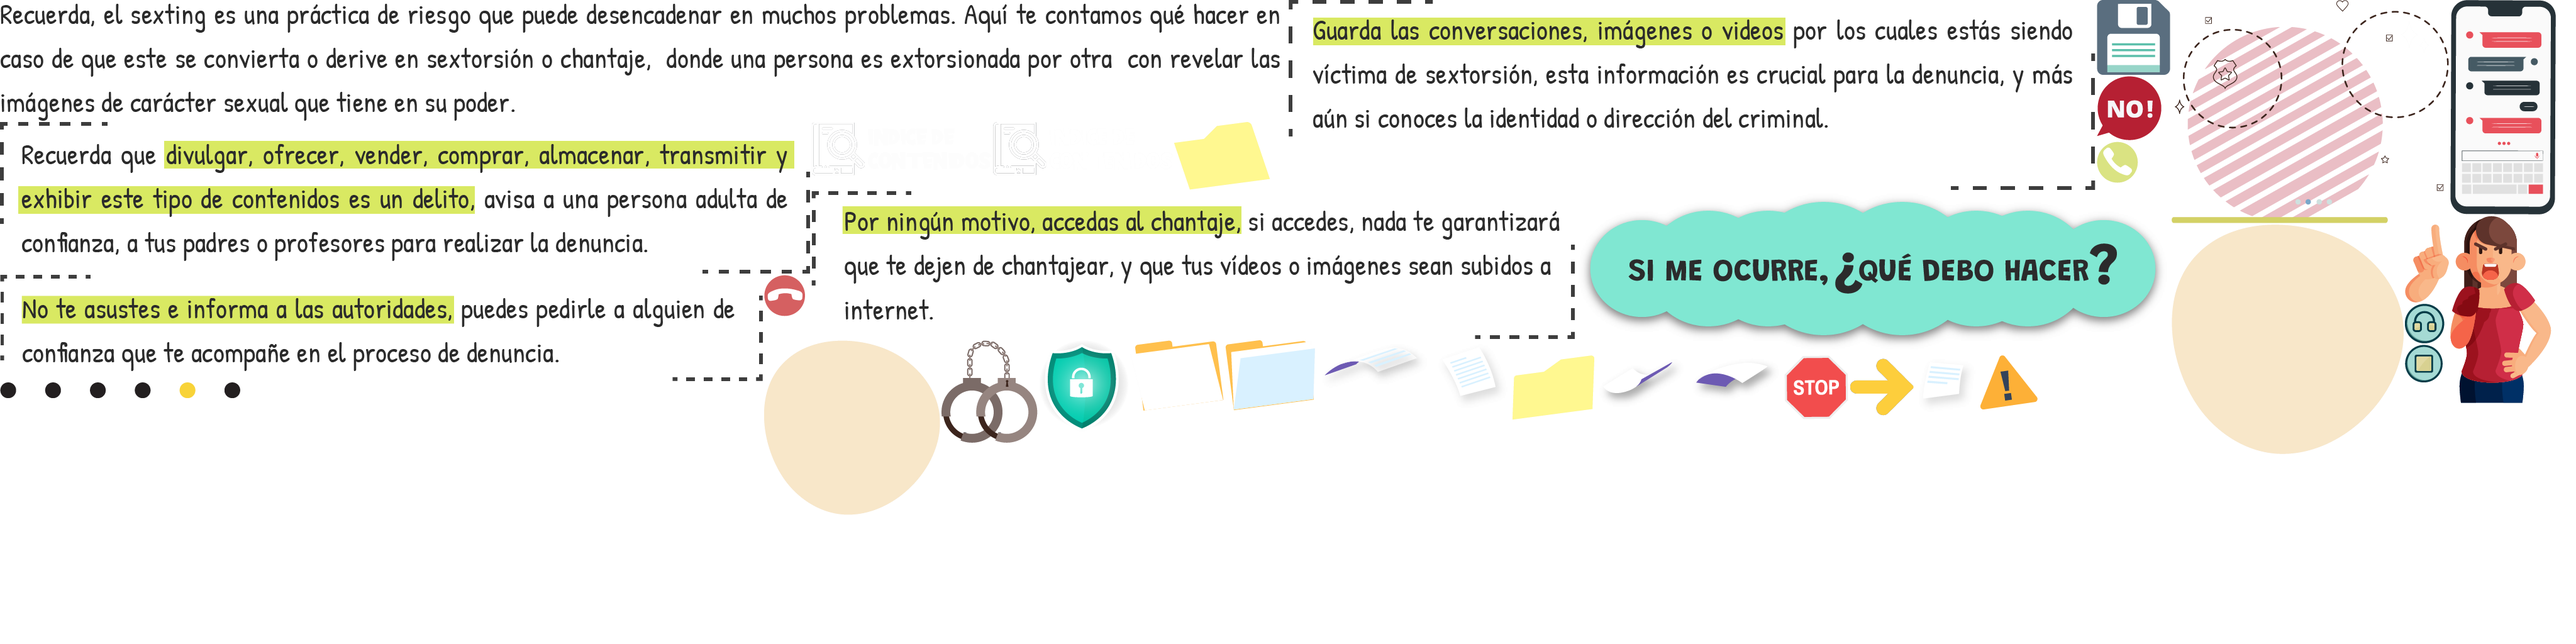
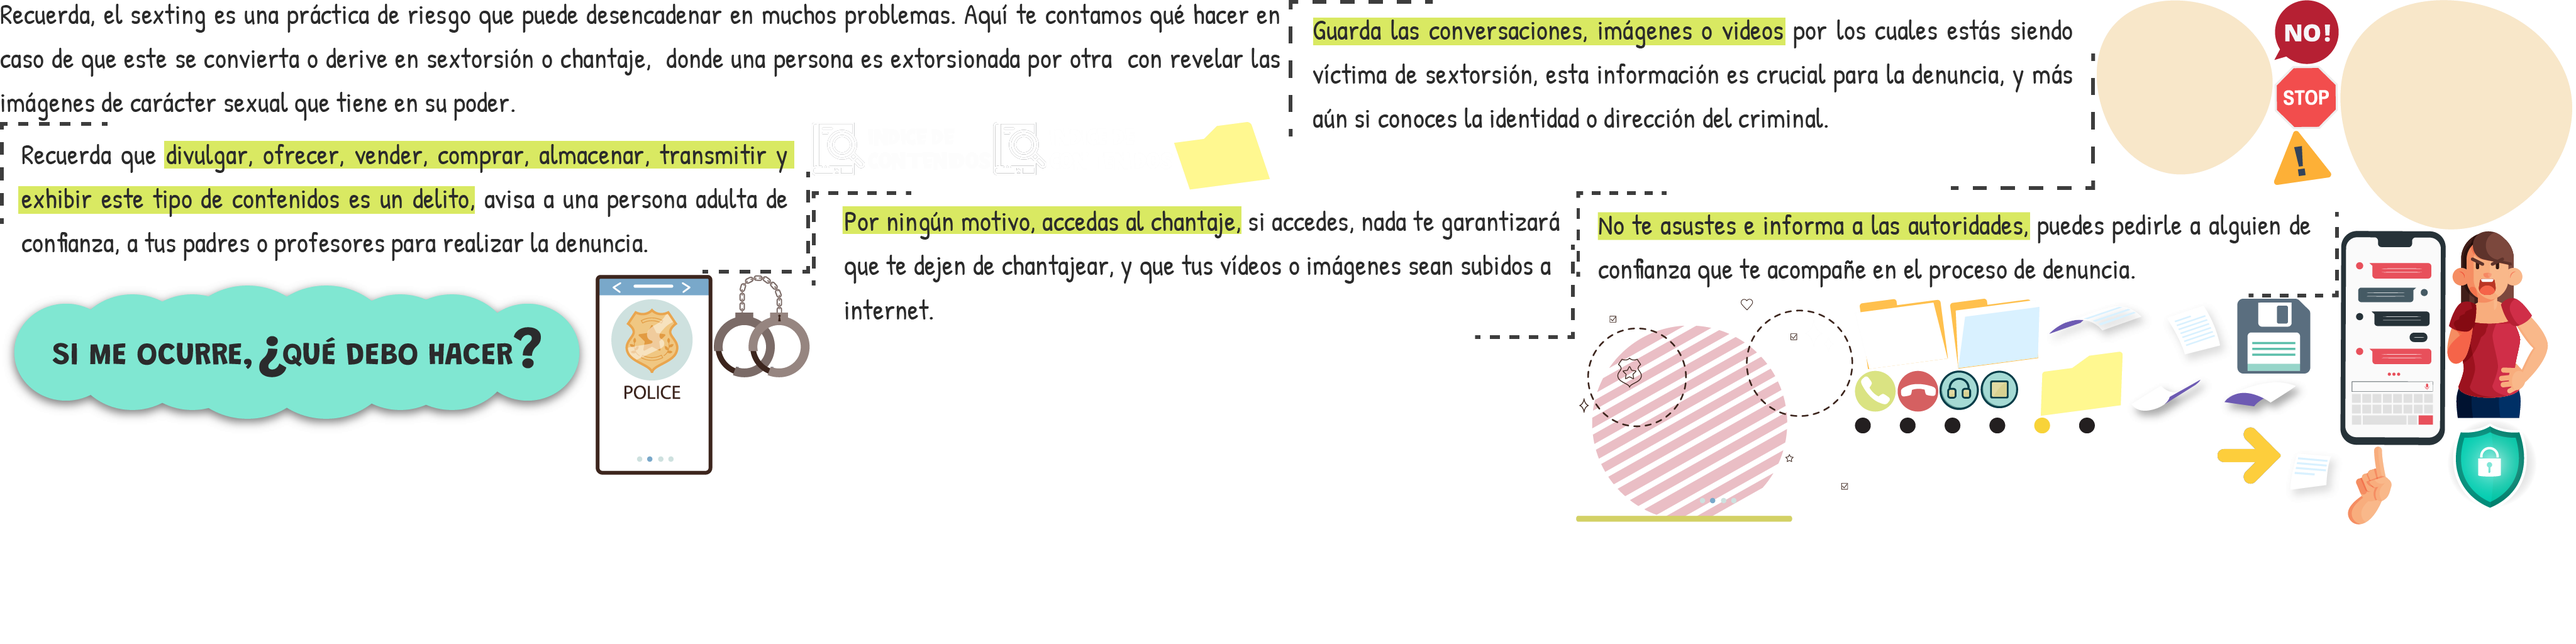
cambios

Changed region(s): [[0.0, 0.0, 1.0, 0.8125]]

diff --git a/Pinocho_y_el_sexting/Contenidos/Si_me_ocurre/index.js b/Pinocho_y_el_sexting/Contenidos/Si_me_ocurre/index.js
@@ -3,7 +3,7 @@
 var p; // shortcut to reference prototypes
 var lib={};var ss={};var img={};
 lib.ssMetadata = [
-		{name:"index_atlas_1", frames: [[3824,357,70,124],[1579,194,286,85],[1290,194,287,85],[3824,483,63,63],[3824,548,60,60],[1797,541,149,112],[1948,541,143,112],[1215,437,65,66],[3334,225,66,66],[1652,541,143,146],[1497,541,153,163],[1215,541,280,278],[3453,0,441,355],[3453,357,369,365],[3334,0,117,119],[2685,565,150,76],[2537,565,146,86],[2093,541,184,82],[2279,541,124,116],[3045,565,102,96],[3149,565,91,86],[2837,565,102,102],[3896,343,161,298],[3334,121,103,102],[0,0,2047,192],[2049,0,1283,302],[0,437,1213,169],[0,194,1288,241],[1290,304,1214,235],[3896,0,168,341],[0,608,382,25],[2941,565,102,102],[1867,194,152,108],[2405,565,130,103],[2506,304,945,259]]}
+		{name:"index_atlas_1", frames: [[3733,710,70,124],[1579,194,286,85],[1290,194,287,85],[3084,589,63,63],[3149,589,60,60],[2949,475,149,112],[3100,475,143,112],[3017,589,65,66],[2949,589,66,66],[3891,667,143,146],[1135,437,153,163],[3334,0,280,278],[2506,475,441,355],[3721,0,369,365],[3557,475,117,119],[3525,596,150,76],[3377,593,146,86],[3245,475,184,82],[3431,475,124,116],[3629,710,102,96],[3616,208,91,86],[3616,104,102,102],[3891,367,161,298],[3616,0,103,102],[0,0,2047,192],[2049,0,1283,302],[2506,304,1213,169],[0,194,1288,241],[1290,304,1214,235],[947,437,186,318],[3721,367,168,341],[2949,664,382,25],[3525,674,102,102],[1867,194,152,108],[3245,559,130,103],[0,437,945,259]]}
 ];
 
 
@@ -230,44 +230,51 @@ lib.ssMetadata = [
 
 
 
-(lib.Phone_1 = function() {
+(lib.Phone = function() {
 	this.initialize(ss["index_atlas_1"]);
 	this.gotoAndStop(29);
 }).prototype = p = new cjs.Sprite();
 
 
 
-(lib.posicion = function() {
+(lib.Phone_1 = function() {
 	this.initialize(ss["index_atlas_1"]);
 	this.gotoAndStop(30);
 }).prototype = p = new cjs.Sprite();
 
 
 
-(lib.SiguienteAtras = function() {
+(lib.posicion = function() {
 	this.initialize(ss["index_atlas_1"]);
 	this.gotoAndStop(31);
 }).prototype = p = new cjs.Sprite();
 
 
 
-(lib.TapaCarpetaDer = function() {
+(lib.SiguienteAtras = function() {
 	this.initialize(ss["index_atlas_1"]);
 	this.gotoAndStop(32);
 }).prototype = p = new cjs.Sprite();
 
 
 
-(lib.TapaCarpetaIzq = function() {
+(lib.TapaCarpetaDer = function() {
 	this.initialize(ss["index_atlas_1"]);
 	this.gotoAndStop(33);
 }).prototype = p = new cjs.Sprite();
 
 
 
-(lib.titulo = function() {
+(lib.TapaCarpetaIzq = function() {
 	this.initialize(ss["index_atlas_1"]);
 	this.gotoAndStop(34);
+}).prototype = p = new cjs.Sprite();
+
+
+
+(lib.titulo = function() {
+	this.initialize(ss["index_atlas_1"]);
+	this.gotoAndStop(35);
 }).prototype = p = new cjs.Sprite();
 // helper functions:
 
@@ -1288,11 +1295,17 @@ if (reversed == null) { reversed = false; }
 
 	this.timeline.addTween(cjs.Tween.get(this.instance_2).to({regX:0.2,regY:-0.2,scaleX:1.1211,scaleY:1.1211,x:319.4},29).to({regX:0,regY:0,scaleX:1,scaleY:1,x:319.5},30).wait(1));
 
-	// Fondo_1.png
-	this.instance_3 = new lib.Interpolación11("synched",0);
-	this.instance_3.setTransform(339.25,-85.25);
+	// celular
+	this.instance_3 = new lib.Phone();
+	this.instance_3.setTransform(288,-173,0.5472,0.5472);
 
-	this.timeline.addTween(cjs.Tween.get(this.instance_3).to({scaleX:1.0426,scaleY:1.0426},29).to({scaleX:1,scaleY:1},30).wait(1));
+	this.timeline.addTween(cjs.Tween.get(this.instance_3).wait(60));
+
+	// Fondo_1.png
+	this.instance_4 = new lib.Interpolación11("synched",0);
+	this.instance_4.setTransform(339.25,-85.25);
+
+	this.timeline.addTween(cjs.Tween.get(this.instance_4).to({scaleX:1.0426,scaleY:1.0426},29).to({scaleX:1,scaleY:1},30).wait(1));
 
 	this._renderFirstFrame();
 
@@ -1703,15 +1716,15 @@ lib.properties = {
 	color: "#66FF00",
 	opacity: 0.00,
 	manifest: [
-		{src:"images/index_atlas_1.png?1692830905757", id:"index_atlas_1"},
-		{src:"sounds/audio1.mp3?1692830905863", id:"audio1"},
-		{src:"sounds/audio2.mp3?1692830905863", id:"audio2"},
-		{src:"sounds/audio3.mp3?1692830905863", id:"audio3"},
-		{src:"sounds/audio4.mp3?1692830905863", id:"audio4"},
-		{src:"sounds/audio5.mp3?1692830905863", id:"audio5"},
-		{src:"sounds/generales.mp3?1692830905863", id:"generales"},
-		{src:"sounds/indice.mp3?1692830905863", id:"indice"},
-		{src:"sounds/QuestionSoundEffect.mp3?1692830905863", id:"QuestionSoundEffect"}
+		{src:"images/index_atlas_1.png?1692908048084", id:"index_atlas_1"},
+		{src:"sounds/audio1.mp3?1692908048185", id:"audio1"},
+		{src:"sounds/audio2.mp3?1692908048185", id:"audio2"},
+		{src:"sounds/audio3.mp3?1692908048185", id:"audio3"},
+		{src:"sounds/audio4.mp3?1692908048185", id:"audio4"},
+		{src:"sounds/audio5.mp3?1692908048185", id:"audio5"},
+		{src:"sounds/generales.mp3?1692908048185", id:"generales"},
+		{src:"sounds/indice.mp3?1692908048185", id:"indice"},
+		{src:"sounds/QuestionSoundEffect.mp3?1692908048185", id:"QuestionSoundEffect"}
 	],
 	preloads: []
 };

diff --git a/Pinocho_y_el_sexting/Contenidos/Si_me_ocurre/index.html b/Pinocho_y_el_sexting/Contenidos/Si_me_ocurre/index.html
@@ -22,7 +22,7 @@
   }
 </style>
 <script src="https://code.createjs.com/1.0.0/createjs.min.js"></script>
-<script src="index.js?1692830905922"></script>
+<script src="index.js?1692908048287"></script>
 <script>
 var canvas, stage, exportRoot, anim_container, dom_overlay_container, fnStartAnimation;
 function init() {
